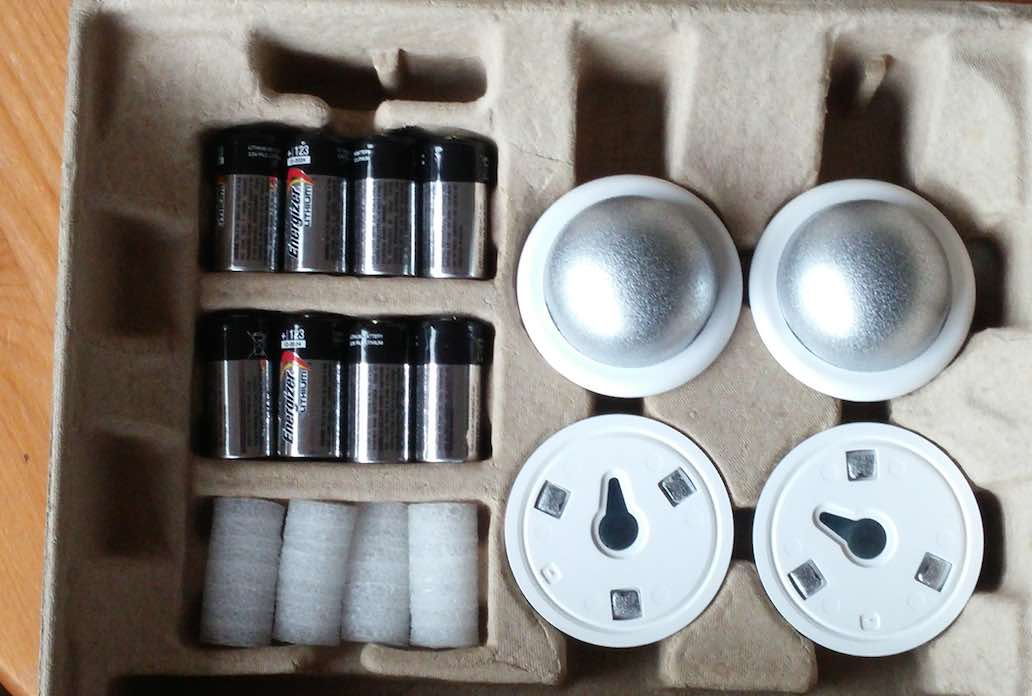
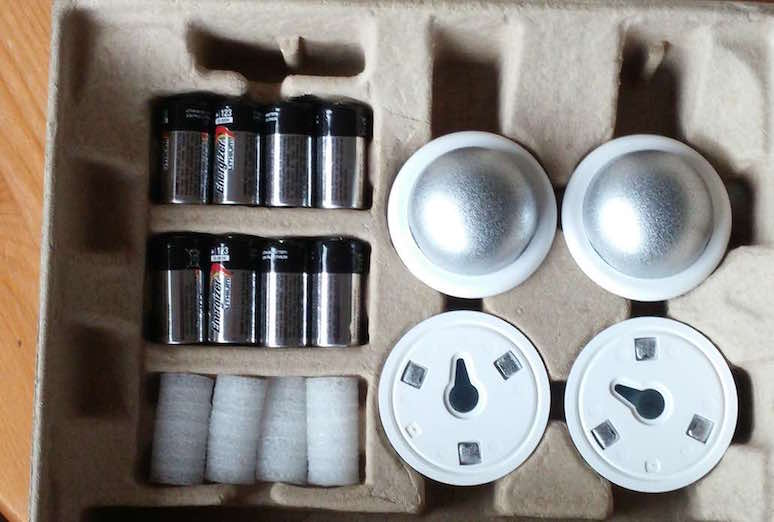
assets shrink

Changed region(s): [[0.2791, 0.2146, 0.3411, 0.3065], [0.2791, 0.5211, 0.3101, 0.5824]]

diff --git a/_posts/2015-12-17-netgear-arlo-home-security-camera-unboxing-setup.md b/_posts/2015-12-17-netgear-arlo-home-security-camera-unboxing-setup.md
@@ -23,22 +23,22 @@ I eventually bought the 2-camera package for £279.99 at [PC World Arlo Camera](
 Here is the boxed arlo smart home security two camera system:
 ![arlo smart home security camera boxed]({{site.baseurl}}/assets/2015-12-17/1 arlo smart home security camera boxed.jpg)
 
-###Contents 1
+####Contents 1
 - US power plug with UK and EU adapter
 - Ethernet cable
 - Wall plugs
 ![arlo unboxed contents]({{site.baseurl}}/assets/2015-12-17/2 arlo unboxed contents.jpg)
 
-###Contents 2
+####Contents 2
 - 8 lithium 123 batteries _(notice the extra battery compartment for systems with a third camera)_
 - 4 wall mounts )I thought providing extra mounts, was very useful as the rear of the cameras are magnetic and so could easily be moved to alternative mounts as required)
 ![arlo unboxed batteries and wall mount]({{site.baseurl}}/assets/2015-12-17/4 arlo unboxed batteries and wall mount.jpg)
 
-###Contents 3
+####Contents 3
 - the netgear base station for the cameras
 ![3 arlo unboxed base station]({{site.baseurl}}/assets/2015-12-17//3 arlo unboxed router.jpg)
 
-###Contents 4
+####Contents 4
 - the two cameras - notice the standard camera mount at the base of the cameras, that could be used as an alternative to the magnetic mount
 ![arlo unboxed cameras]({{site.baseurl}}/assets/2015-12-17/5 arlo unboxed cameras.jpg)
 
@@ -46,44 +46,44 @@ As there were no instructions included I Used [http://www.downloads.netgear.com/
 
 ##Connect Base Station to Router and Register Account
 
-###Connect Base Station to home or work router
+####Connect Base Station to home or work router
 So, following the instructions, I connected the base station directly to a free ethernet port on my BT Home Hub 3 and then powered on the base station.
 
-###Arlo Login Page
+####Arlo Login Page
 Next, was to register an account at arlo.com/login:
 ![arlo new system setup page]({{site.baseurl}}/assets/2015-12-17/10 arlo login page.jpg)
 
-###System Setup Page
+####System Setup Page
 Amazingly, the browser defaulted the base station serial number, I just selected my timezone.
 ![arlo system setup page]({{site.baseurl}}/assets/2015-12-17/11 arlo system setup page.jpg)
 
-###Account Setup Page
+####Account Setup Page
 Just some basic information required for the account setup
 ![arlo account setup page]({{site.baseurl}}/assets/2015-12-17/12 arlo account setup page.jpg)
 
-###Service Selection Page
+####Service Selection Page
 Next the all important service selection.  I selected the free Basic plan.
 ![arlo service selection page]({{site.baseurl}}/assets/2015/12-17/13 arlo service selection page.jpg)
 
 ##Sync Cameras to Base Station
 
-###A Insert Batteries
+####A Insert Batteries
 Slightly tricky to open the battery compartment as there is a lock and it slides out and then hinges up... here are the batteries...
 ![arlo unboxed camera open with batteries]({{site.baseurl}}/assets/2015-12-17/6 arlo unboxed camera open with batteries.jpg)
 
-###B Press the Base Station Sync Button
+####B Press the Base Station Sync Button
 Note that the instructions mention that the sync status LED should light up - it did not for me, though strategy the USB light lit up... regardless, I continued with the next step
 ![arlo sync button on router]({{site.baseurl}}/assets/2015-12-17/7 arlo sync button on router.jpg)
 
-###C Press the Camera Sync Button
+####C Press the Camera Sync Button
 ![arlo camera sync button]({{site.baseurl}}/assets/2015-12-17/8 arlo camera sync button.jpg)
 
-###D Streaming Video!
+####D Streaming Video!
 ![camera streaming]({{site.baseurl}}/assets/2015-12-17/15 camera streaming.jpg)
 
 I repeated steps A to D for the second camera
 
-###Base Station with Camera Sync Light
+####Base Station with Camera Sync Light
 ![arlo router sync light on]({{site.baseurl}}/assets/2015-12-17/9 arlo router sync light on.jpg)
 
 That's it..I will describe some more advanced configuration in an upcoming post.  I would recommend these little cameras for usability..
